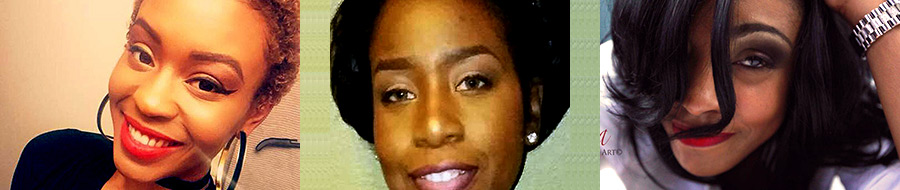
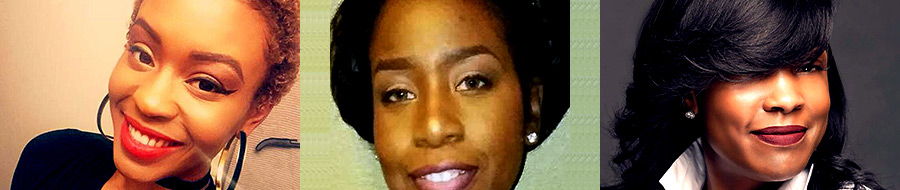
1.7.1 - Updates to The Dressing Room made

Changed region(s): [[0.6533, 0.0, 1.0, 1.0]]

diff --git a/index.htm b/index.htm
@@ -188,7 +188,7 @@
             <div class="link-listen_now">
               <a href="#" title="Listen Now" onclick="routeToShow();">Listen Now</a>
             </div>
-            <img class="d-block img-fluid" src="assets/img/splash/dressing.jpg?v=1" alt="The Dressing Room with Shernetta Bouier&#341;&ndash;Blue">
+            <img class="d-block img-fluid" src="assets/img/splash/dressing.jpg?v=3" alt="The Dressing Room with Shernetta Bouier&#341;&ndash;Blue">
             <div class="carousel-item-content" id="carousel-dressing">
               <!-- <span>
                 Monday Motivation w/ InnerGy is a drive time show to get you ready for the workday and the week ahead. 

diff --git a/the-dressing-room/index.htm b/the-dressing-room/index.htm
@@ -35,7 +35,7 @@
             <div class="link-listen_now">
               <a href="#" title="Listen Now" onclick="routeToShow();">Listen Now</a>
             </div>
-            <img class="d-block img-fluid" src="../assets/img/splash/dressing.jpg?v=1" alt="The Dressing Room with Devine Daughters">
+            <img class="d-block img-fluid" src="../assets/img/splash/dressing.jpg?v=3" alt="The Dressing Room with Devine Daughters">
             <div class="carousel-item-content" id="carousel-dressing">
               <!-- <span>
                 Sed elementum rutrum neque eget condimentum. Aenean non tellus luctus, hendrerit nunc ac, 

diff --git a/assets/css/style.css b/assets/css/style.css
@@ -523,7 +523,7 @@ h5,
 #show_listing-monday + a, 
 #show_listing-food + a, 
 #show_listing-dressing + a {
-  background-image: url('../img/listings/row_3.jpg?v=1');
+  background-image: url('../img/listings/row_3.jpg?v=2');
 }
 
 #show_listing-food + a {
